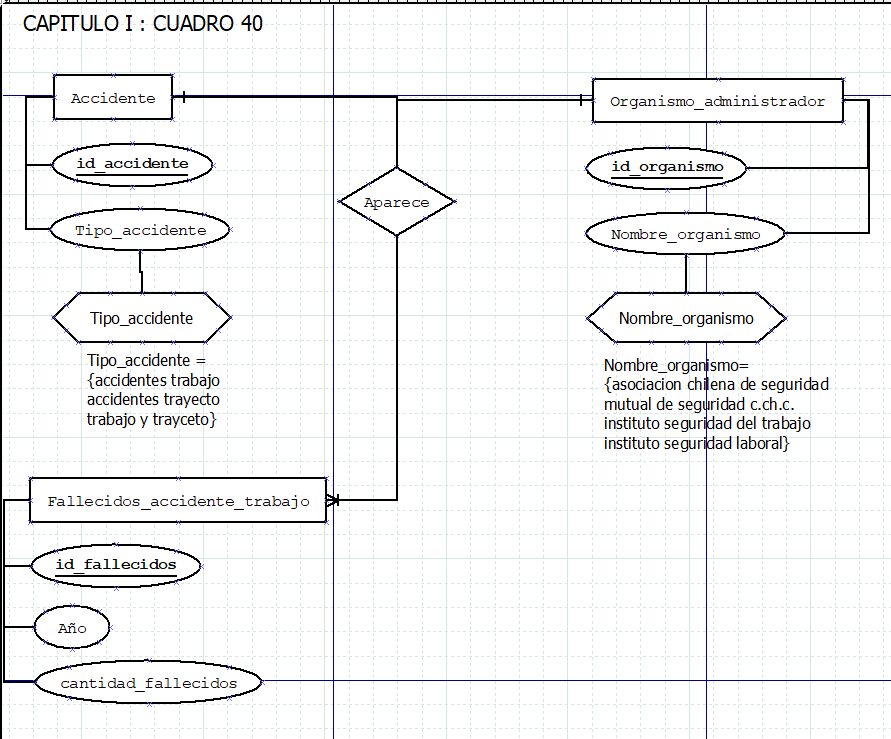
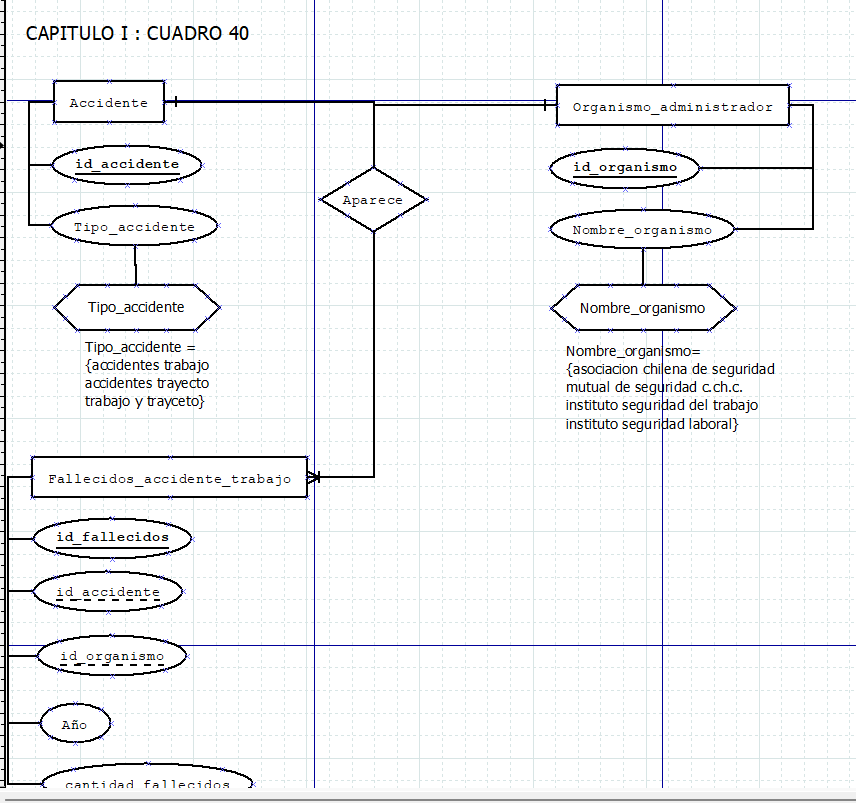
actualizacion cuadros 25 y 40

diff --git a/identificación_de_los_atributos_y_entidades_y_creación_de_las_tablas.md b/identificación_de_los_atributos_y_entidades_y_creación_de_las_tablas.md
@@ -110,7 +110,8 @@ cantidad de mujeres por subtipo
 - Otras actividades de servicios comunitarios, sociales y personales
 - Organizaciones y órganos extraterritoriales
 - Hogares privados con servicio doméstico
-
+#### Modelo entidad relación
+![REM-07](./images/cuadro25.png)
 #### NÚMERO DE FALLECIDOS POR ACCIDENTES DEL TRABAJO SEGÚN TIPO DE ACCIDENTE Y ORGANISMO ADMINISTRADOR (1)
 > **Tipo de accidente**  
 - accidentes trabajo  
